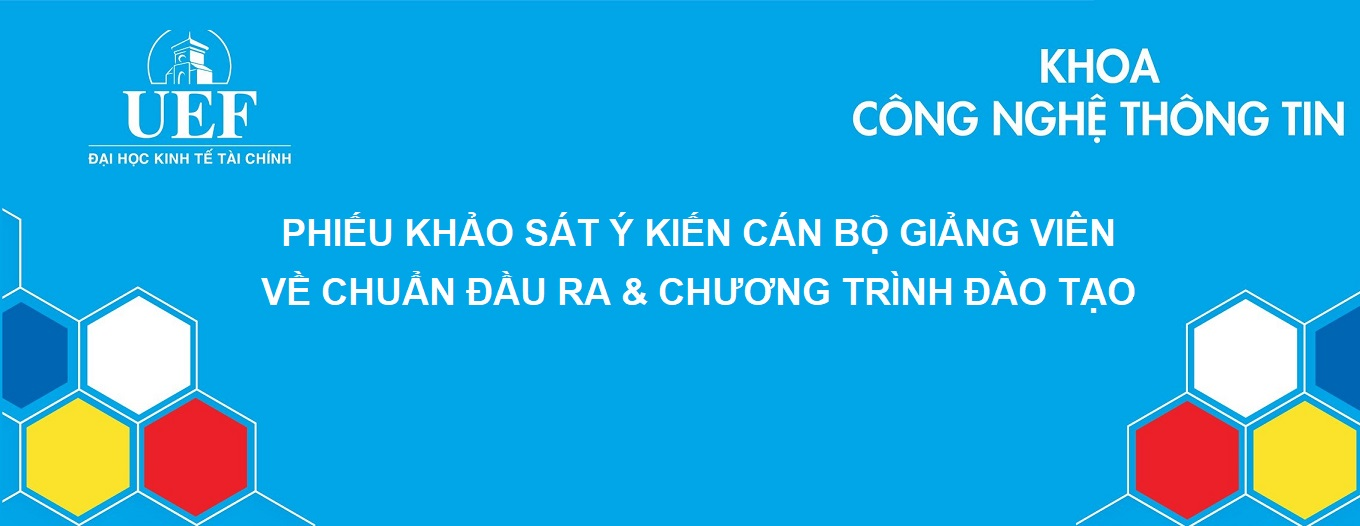
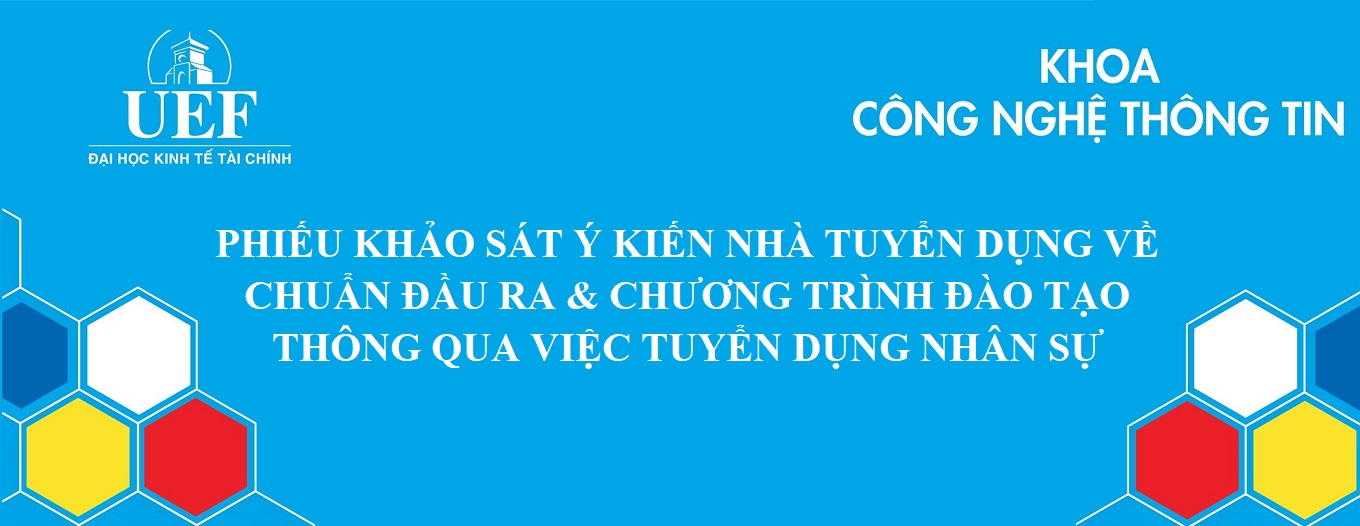
update

Changed region(s): [[0.1544, 0.3954, 0.8647, 0.6996]]

diff --git a/nha-tuyen-dung/index.html b/nha-tuyen-dung/index.html
@@ -2,13 +2,14 @@
 <html>
 
 <head>
-    <title>PHIẾU KHẢO SÁT Ý KIẾN CÁN BỘ GIẢNG VIÊNVỀ CHUẨN ĐẦU RA & CHƯƠNG TRÌNH ĐÀO TẠO - FIT@UEF</title>
+    <title>PHIẾU KHẢO SÁT Ý KIẾN NHÀ TUYỂN DỤNG VỀ CHUẨN ĐẦU RA & CHƯƠNG TRÌNH ĐÀO TẠO THÔNG QUA VIỆC TUYỂN DỤNG NHÂN SỰ - FIT@UEF
+    </title>
     <meta name="viewport" content="width=device-width, initial-scale=1.0">
     <link rel="stylesheet" type="text/css" href="css/style.css">
     <meta property="og:image" content="https://raw.githubusercontent.com/fituef/thuongmaidientu/master/images/bg.jpg">
     <link rel="shortcut icon" href="favicon.ico" type="image/x-icon">
-    <meta name="keywords" content="chào đón tân sinh viên K20, sinh viên thương mại điện tử K2020" />
-    <meta name="description" content="Chương trình chào đón tân sinh viên Ngành thương mại mại điện tử Khóa 2020 - 2024 - Khoa công nghệ thông tin, Trường Đại học Kinh tế - Tài Chính Tp.HCM - UEF'" />
+    <meta name="keywords" content="KHẢO SÁT Ý KIẾN NHÀ TUYỂN DỤNG VỀ CHUẨN ĐẦU RA & CHƯƠNG TRÌNH ĐÀO TẠO THÔNG QUA VIỆC TUYỂN DỤNG NHÂN SỰ" />
+    <meta name="description" content="KHẢO SÁT Ý KIẾN NHÀ TUYỂN DỤNG VỀ CHUẨN ĐẦU RA & CHƯƠNG TRÌNH ĐÀO TẠO THÔNG QUA VIỆC TUYỂN DỤNG NHÂN SỰ - KHOA CÔNG NGHỆ THÔNG TIN, TRƯỜNG ĐẠI HỌC KINH TẾ - TÀI CHÍNH TP.HCM - UEF'" />
     <meta charset="utf-8">
     <style>
          :root {
@@ -197,17 +198,212 @@
     <img src="images/bg.jpg" style="max-width: 100% !important;" />
     <div id="container">
         <div id="main-content" style="padding-left:5px; padding-right:5px">
-            <H5 style="font-size: 1.2em;text-align:justify; color: #0065b3; font-weight: bold; margin-bottom: 5px; margin-top: 10px;">Nhằm không ngừng cải tiến và nâng cao chất lượng giáo dục đào tạo, trường Đại học UEF tổ chức khảo sát ý kiến của giảng viên về chuẩn đầu ra và chương trình đào tạo của ngành mà quý Thầy/Cô đang giảng dạy. Những thông tin quý Thầy/Cô cung cấp trong phiếu khảo sát này sẽ giúp Khoa có thêm cơ sở để có những điều chỉnh, cải tiến về chuẩn đầu ra và chương trình đào tạo mà Khoa đã xây dựng. Chúng tôi xin cam đoan những thông tin trả lời trong phiếu khảo sát này sẽ được giữ bí mật và sử dụng đúng mục đích nêu trên. Xin chân thành cảm ơn sự đóng góp quý giá của quý Thầy/Cô.</H5>
+            <H5 style="font-size: 1.2em;text-align:justify; color: #0065b3; font-weight: bold; margin-bottom: 5px; margin-top: 10px;">Trường Đại học Kinh tế - Tài chính Tp.HCM (UEF) chân thành cảm ơn Quý cơ quan/Doanh nghiệp (CQ/DN) trong thời gian vừa qua đã tiếp nhận sinh viên của trường UEF đào tạo về làm việc tại đơn vị. Chúng tôi rất mong nhận được ý kiến đóng góp của Quý vị trên phiếu khảo sát này, để trên cơ sở những nhận xét và góp ý chân thành đó, chúng tôi sẽ có những điều chỉnh, cải tiến để những sản phẩm đầu ra và chương trình đào tạo của UEF ngày càng có chất lượng, đáp ứng được yêu cầu của Quý cơ quan/doanh nghiệp nói riêng và thị trường lao động nói chung. Chúng tôi xin cam đoan những thông tin trả lời trong phiếu khảo sát này sẽ được giữ bí mật và sử dụng đúng mục đích nêu trên. Xin chân thành cảm ơn sự đóng góp quý giá của Quý đơn vị.</H5>
             <hr /> 
             <form name="submit-to-google-sheet" class="js-showupdate">
-                <h2 style="color: #0065b3; font-weight: bold; margin-bottom: 5px;margin-top: 10px;">A. VỀ CHUẨN ĐẦU RA</h2>
-                <h5 style="text-align: justify; font-size: 1.2em">Chuẩn đầu ra chi tiết hóa và cụ thể hóa các nội dung quy định về kiến thức, kỹ năng và phẩm chất đạo đức của nguồn nhân lực được đào tạo. Chuẩn đầu ra của ngành đào tạo mà Thầy/Cô đang giảng dạy có đáp ứng các yêu cầu sau không?</h5>
-                <br />
-                <label for="txtHoTen" style="font-size: 1.2em">1. Chuẩn đầu ra được xác định rõ ràng (về kiến thức, kỹ năng, thái độ, năng lực) và được chuyển tải vào chương trình đào tạo?</label>
-                <div class="preference">
-                    <label style="font-size: 1.2em"><input value="Có" type="radio" name="A1" required> Có</label>
-                    <label style="font-size: 1.2em"><input style="margin-left:150px;font-size: 1.2em" value="Có" type="radio" name="A1" required> Không</label>
+                <h2 style="color: #0065b3; font-weight: bold; margin-bottom: 5px;margin-top: 10px;">I. THÔNG TIN VỀ CƠ QUAN/ DOANH NGHIỆP </h2>
+                <div class="form-wrapper">
+                    <label for="txtHoTen"><b>1. Tên cơ quan/doanh nghiệp (CQ/DN)</b></label>
+                    <input id="inLop" type="text" name="I1" placeholder="Tên cơ quan/doanh nghiệp (CQ/DN)" class="form-control" required>
                 </div>
+                <div class="form-wrapper">
+                    <label for="txtHoTen"><b>2. Chức vụ (người trả lời):</b></label>
+                    <input id="inLop" type="text" name="I2" placeholder="Chức vụ (người trả lời)" class="form-control" required>
+                </div>
+                <div class="form-wrapper">
+                    <label for="txtHoTen"><b>3. Địa chỉ</b></label>
+                    <input id="inLop" type="text" name="I3" placeholder="Địa chỉ" class="form-control" required>
+                </div>
+                <div class="form-wrapper">
+                    <label for="txtHoTen"><b>4.1. Số điện thoại - Fax</b></label>
+                    <input id="inLop" type="text" name="I41" placeholder="Số điện thoại - Fax" class="form-control" required>
+                </div>
+                <div class="form-wrapper">
+                    <label for="txtHoTen"><b>4.2.Website - Email:</b></label>
+                    <input id="inLop" type="text" name="I42" placeholder="Website - Email:" class="form-control" required>
+                </div>
+                <label for="txtHoTen" style="font-size: 1.2em"><b>5.1. Loại hình doanh nghiệp:</b></label>
+                <div class="preference">
+                    <label style="font-size: 1.2em"><input value="Nhà nước" type="checkbox" name="I51a"> Nhà nước</label><br />
+                    <label style="font-size: 1.2em"><input style="font-size: 1.2em" value="Tư nhân" type="checkbox" name="I51b"> Tư nhân</label><br />
+                    <label style="font-size: 1.2em"><input style="font-size: 1.2em" value="Tổ chức chính trị, xã hội" type="checkbox" name="I51c"> Tổ chức chính trị, xã hội</label>
+                </div>
+
+                <label for="txtHoTen" style="font-size: 1.2em"><b>5.2. Lĩnh vực hoạt động :</b></label>
+                <div class="preference">
+                    <label style="font-size: 1.2em"><input value="Kinh doanh" type="checkbox" name="I52a"> Kinh doanh</label><br />
+                    <label style="font-size: 1.2em"><input style="font-size: 1.2em" value="Sản xuất" type="checkbox" name="I52b"> Sản xuất</label><br />
+                    <label style="font-size: 1.2em"><input style="font-size: 1.2em" value="Có" type="checkbox"> Khác <input name="I52c" /></label>
+                </div>
+
+                <h2 style="color: #0065b3; font-weight: bold; margin-bottom: 5px;margin-top: 10px;">II. NHẬN XÉT CHUNG VỀ SINH VIÊN UEF RA TRƯỜNG LÀM VIỆC TẠI ĐƠN VỊ </h2>
+                <h5 style="text-align: justify; font-size: 1.2em">A. NHẬN XÉT CHUNG VỀ SINH VIÊN UEF</h5>
+                <h2 style="color: #0065b3; font-weight: bold; margin-bottom: 5px;margin-top: 10px;">KIẾN THỨC</h2>
+                <br />
+                <label for="txtHoTen" style="font-size: 1.2em">1. Kiến thức chuyên ngành?</label><br />
+                <label style="font-size:1.0em">
+                    # Mức độ hài lòng đối với sinh viên Đại học UEF đang làm việc tại Quý đơn vị
+                </label>
+                <div class="preference">
+                    <label style="font-size: 1.2em"><input value="1" type="radio" name="II11" required>Hoàn toàn không hài lòng</label><br />
+                    <label style="font-size: 1.2em"><input value="2" type="radio" name="II11" required>Không hài lòng</label><br />
+                    <label style="font-size: 1.2em"><input value="3" type="radio" name="II11" required>Hài lòng</label><br />
+                    <label style="font-size: 1.2em"><input value="4" type="radio" name="II11" required>Khá hài lòng</label><br />
+                    <label style="font-size: 1.2em"><input value="5" type="radio" name="II11" required>Rất hài lòng</label>
+                </div>
+
+                <label for="txtHoTen" style="font-size: 1.2em">2. Khả năng ứng dụng kiến thức chuyên ngành vào thực tiễn công việc?</label><br />
+                <label style="font-size:1.0em">
+                    # Mức độ hài lòng đối với sinh viên Đại học UEF đang làm việc tại Quý đơn vị
+                </label>
+                <div class="preference">
+                    <label style="font-size: 1.2em"><input value="1" type="radio" name="II12" required>Hoàn toàn không hài lòng</label><br />
+                    <label style="font-size: 1.2em"><input value="2" type="radio" name="II12" required>Không hài lòng</label><br />
+                    <label style="font-size: 1.2em"><input value="3" type="radio" name="II12" required>Hài lòng</label><br />
+                    <label style="font-size: 1.2em"><input value="4" type="radio" name="II12" required>Khá hài lòng</label><br />
+                    <label style="font-size: 1.2em"><input value="5" type="radio" name="II12" required>Rất hài lòng</label>
+                </div>
+
+                <label for="txtHoTen" style="font-size: 1.2em">3. Kiến thức khác liên quan đến lĩnh vực hoạt động?</label><br />
+                <label style="font-size:1.0em">
+                    # Mức độ hài lòng đối với sinh viên Đại học UEF đang làm việc tại Quý đơn vị
+                </label>
+                <div class="preference">
+                    <label style="font-size: 1.2em"><input value="1" type="radio" name="II13" required>Hoàn toàn không hài lòng</label><br />
+                    <label style="font-size: 1.2em"><input value="2" type="radio" name="II13" required>Không hài lòng</label><br />
+                    <label style="font-size: 1.2em"><input value="3" type="radio" name="II13" required>Hài lòng</label><br />
+                    <label style="font-size: 1.2em"><input value="4" type="radio" name="II13" required>Khá hài lòng</label><br />
+                    <label style="font-size: 1.2em"><input value="5" type="radio" name="II13" required>Rất hài lòng</label>
+                </div>
+
+                <h2 style="color: #0065b3; font-weight: bold; margin-bottom: 5px;margin-top: 10px;">KỸ NĂNG NGHỀ NGHIỆP & KỸ NĂNG KHÁC</h2>
+                <br />
+                <label for="txtHoTen" style="font-size: 1.2em">1. Kỹ năng thực hiện công việc được giao?</label><br />
+                <label style="font-size:1.0em">
+                    # Mức độ hài lòng đối với sinh viên Đại học UEF đang làm việc tại Quý đơn vị
+                </label>
+                <div class="preference">
+                    <label style="font-size: 1.2em"><input value="1" type="radio" name="II21" required>Hoàn toàn không hài lòng</label><br />
+                    <label style="font-size: 1.2em"><input value="2" type="radio" name="II21" required>Không hài lòng</label><br />
+                    <label style="font-size: 1.2em"><input value="3" type="radio" name="II21" required>Hài lòng</label><br />
+                    <label style="font-size: 1.2em"><input value="4" type="radio" name="II21" required>Khá hài lòng</label><br />
+                    <label style="font-size: 1.2em"><input value="5" type="radio" name="II21" required>Rất hài lòng</label>
+                </div>
+
+                <label for="txtHoTen" style="font-size: 1.2em">2. Kỹ năng lập kế hoạch và tổ chức thực hiện kế hoạch?</label><br />
+                <label style="font-size:1.0em">
+                    # Mức độ hài lòng đối với sinh viên Đại học UEF đang làm việc tại Quý đơn vị
+                </label>
+                <div class="preference">
+                    <label style="font-size: 1.2em"><input value="1" type="radio" name="II22" required>Hoàn toàn không hài lòng</label><br />
+                    <label style="font-size: 1.2em"><input value="2" type="radio" name="II22" required>Không hài lòng</label><br />
+                    <label style="font-size: 1.2em"><input value="3" type="radio" name="II22" required>Hài lòng</label><br />
+                    <label style="font-size: 1.2em"><input value="4" type="radio" name="II22" required>Khá hài lòng</label><br />
+                    <label style="font-size: 1.2em"><input value="5" type="radio" name="II22" required>Rất hài lòng</label>
+                </div>
+
+                <label for="txtHoTen" style="font-size: 1.2em">3. Kỹ năng phân tích, đánh giá, giải quyết vấn đề?</label><br />
+                <label style="font-size:1.0em">
+                    # Mức độ hài lòng đối với sinh viên Đại học UEF đang làm việc tại Quý đơn vị
+                </label>
+                <div class="preference">
+                    <label style="font-size: 1.2em"><input value="1" type="radio" name="II23" required>Hoàn toàn không hài lòng</label><br />
+                    <label style="font-size: 1.2em"><input value="2" type="radio" name="II23" required>Không hài lòng</label><br />
+                    <label style="font-size: 1.2em"><input value="3" type="radio" name="II23" required>Hài lòng</label><br />
+                    <label style="font-size: 1.2em"><input value="4" type="radio" name="II23" required>Khá hài lòng</label><br />
+                    <label style="font-size: 1.2em"><input value="5" type="radio" name="II23" required>Rất hài lòng</label>
+                </div>
+                <label for="txtHoTen" style="font-size: 1.2em">4. Đề xuất phương án cải tiến kỹ thuật, quy trình công nghệ nâng cao chất lượng công việc?</label><br />
+                <label style="font-size:1.0em">
+                    # Mức độ hài lòng đối với sinh viên Đại học UEF đang làm việc tại Quý đơn vị
+                </label>
+                <div class="preference">
+                    <label style="font-size: 1.2em"><input value="1" type="radio" name="II24" required>Hoàn toàn không hài lòng</label><br />
+                    <label style="font-size: 1.2em"><input value="2" type="radio" name="II24" required>Không hài lòng</label><br />
+                    <label style="font-size: 1.2em"><input value="3" type="radio" name="II24" required>Hài lòng</label><br />
+                    <label style="font-size: 1.2em"><input value="4" type="radio" name="II24" required>Khá hài lòng</label><br />
+                    <label style="font-size: 1.2em"><input value="5" type="radio" name="II24" required>Rất hài lòng</label>
+                </div>
+                <label for="txtHoTen" style="font-size: 1.2em">5. Kỹ năng giao tiếp?</label><br />
+                <label style="font-size:1.0em">
+                    # Mức độ hài lòng đối với sinh viên Đại học UEF đang làm việc tại Quý đơn vị
+                </label>
+                <div class="preference">
+                    <label style="font-size: 1.2em"><input value="1" type="radio" name="II25" required>Hoàn toàn không hài lòng</label><br />
+                    <label style="font-size: 1.2em"><input value="2" type="radio" name="II25" required>Không hài lòng</label><br />
+                    <label style="font-size: 1.2em"><input value="3" type="radio" name="II25" required>Hài lòng</label><br />
+                    <label style="font-size: 1.2em"><input value="4" type="radio" name="II25" required>Khá hài lòng</label><br />
+                    <label style="font-size: 1.2em"><input value="5" type="radio" name="II25" required>Rất hài lòng</label>
+                </div>
+                <label for="txtHoTen" style="font-size: 1.2em">6. Kỹ năng sử dụng ngoại ngữ?</label><br />
+                <label style="font-size:1.0em">
+                    # Mức độ hài lòng đối với sinh viên Đại học UEF đang làm việc tại Quý đơn vị
+                </label>
+                <div class="preference">
+                    <label style="font-size: 1.2em"><input value="1" type="radio" name="II26" required>Hoàn toàn không hài lòng</label><br />
+                    <label style="font-size: 1.2em"><input value="2" type="radio" name="II26" required>Không hài lòng</label><br />
+                    <label style="font-size: 1.2em"><input value="3" type="radio" name="II26" required>Hài lòng</label><br />
+                    <label style="font-size: 1.2em"><input value="4" type="radio" name="II26" required>Khá hài lòng</label><br />
+                    <label style="font-size: 1.2em"><input value="5" type="radio" name="II26" required>Rất hài lòng</label>
+                </div>
+                <label for="txtHoTen" style="font-size: 1.2em">7. Kỹ năng sử dụng công nghệ thông tin trong công việc?</label><br />
+                <label style="font-size:1.0em">
+                    # Mức độ hài lòng đối với sinh viên Đại học UEF đang làm việc tại Quý đơn vị
+                </label>
+                <div class="preference">
+                    <label style="font-size: 1.2em"><input value="1" type="radio" name="II27" required>Hoàn toàn không hài lòng</label><br />
+                    <label style="font-size: 1.2em"><input value="2" type="radio" name="II27" required>Không hài lòng</label><br />
+                    <label style="font-size: 1.2em"><input value="3" type="radio" name="II27" required>Hài lòng</label><br />
+                    <label style="font-size: 1.2em"><input value="4" type="radio" name="II27" required>Khá hài lòng</label><br />
+                    <label style="font-size: 1.2em"><input value="5" type="radio" name="II27" required>Rất hài lòng</label>
+                </div>
+                <label for="txtHoTen" style="font-size: 1.2em">3. Kỹ năng phân tích, đánh giá, giải quyết vấn đề?</label><br />
+                <label style="font-size:1.0em">
+                    # Mức độ hài lòng đối với sinh viên Đại học UEF đang làm việc tại Quý đơn vị
+                </label>
+                <div class="preference">
+                    <label style="font-size: 1.2em"><input value="1" type="radio" name="II23" required>Hoàn toàn không hài lòng</label><br />
+                    <label style="font-size: 1.2em"><input value="2" type="radio" name="II23" required>Không hài lòng</label><br />
+                    <label style="font-size: 1.2em"><input value="3" type="radio" name="II23" required>Hài lòng</label><br />
+                    <label style="font-size: 1.2em"><input value="4" type="radio" name="II23" required>Khá hài lòng</label><br />
+                    <label style="font-size: 1.2em"><input value="5" type="radio" name="II23" required>Rất hài lòng</label>
+                </div>
+                <label for="txtHoTen" style="font-size: 1.2em">3. Kỹ năng phân tích, đánh giá, giải quyết vấn đề?</label><br />
+                <label style="font-size:1.0em">
+                    # Mức độ hài lòng đối với sinh viên Đại học UEF đang làm việc tại Quý đơn vị
+                </label>
+                <div class="preference">
+                    <label style="font-size: 1.2em"><input value="1" type="radio" name="II23" required>Hoàn toàn không hài lòng</label><br />
+                    <label style="font-size: 1.2em"><input value="2" type="radio" name="II23" required>Không hài lòng</label><br />
+                    <label style="font-size: 1.2em"><input value="3" type="radio" name="II23" required>Hài lòng</label><br />
+                    <label style="font-size: 1.2em"><input value="4" type="radio" name="II23" required>Khá hài lòng</label><br />
+                    <label style="font-size: 1.2em"><input value="5" type="radio" name="II23" required>Rất hài lòng</label>
+                </div>
+
+
+
+
+
+
+
+
+
+
+
+
+
+
+
+
+
+
+
+
+
+
+
+
+
 
                 <label for="txtHoTen" style="font-size: 1.2em">2. Chương trình đào tạo khuyến khích khả năng học tập suốt đời cho sinh viên?</label>
                 <div class="preference">
@@ -323,7 +519,7 @@
                     <label style="font-size: 1.2em"><input style="font-size: 1.2em" value="Có" type="radio" name="B15" required> Có</label>
                     <label style="font-size: 1.2em"><input style="margin-left:150px;font-size: 1.2em" value="Có" type="radio" name="B15" required> Không</label>
                 </div>
-                <hr /> 
+                <hr />
                 <div class="form-wrapper">
                     <label for="txtHoTen">Họ và Tên</label>
                     <input id="inLop" type="text" name="txtHoTen" placeholder="Họ và Tên" class="form-control" required>

diff --git a/giang-vien/index.html b/giang-vien/index.html
@@ -7,8 +7,8 @@
     <link rel="stylesheet" type="text/css" href="css/style.css">
     <meta property="og:image" content="https://raw.githubusercontent.com/fituef/thuongmaidientu/master/images/bg.jpg">
     <link rel="shortcut icon" href="favicon.ico" type="image/x-icon">
-    <meta name="keywords" content="chào đón tân sinh viên K20, sinh viên thương mại điện tử K2020" />
-    <meta name="description" content="Chương trình chào đón tân sinh viên Ngành thương mại mại điện tử Khóa 2020 - 2024 - Khoa công nghệ thông tin, Trường Đại học Kinh tế - Tài Chính Tp.HCM - UEF'" />
+    <meta name="keywords" content="PHIẾU KHẢO SÁT Ý KIẾN CÁN BỘ GIẢNG VIÊNVỀ CHUẨN ĐẦU RA & CHƯƠNG TRÌNH ĐÀO TẠO" />
+    <meta name="description" content="PHIẾU KHẢO SÁT Ý KIẾN CÁN BỘ GIẢNG VIÊNVỀ CHUẨN ĐẦU RA & CHƯƠNG TRÌNH ĐÀO TẠO - KHOA CÔNG NGHỆ THÔNG TIN, TRƯỜNG ĐẠI HỌC KINH TẾ - TÀI CHÍNH TP.HCM - UEF'" />
     <meta charset="utf-8">
     <style>
          :root {
